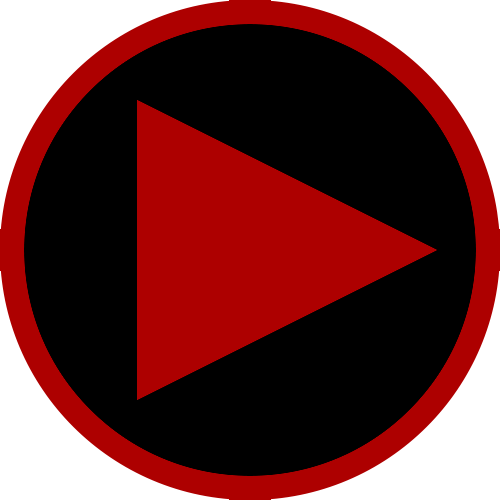
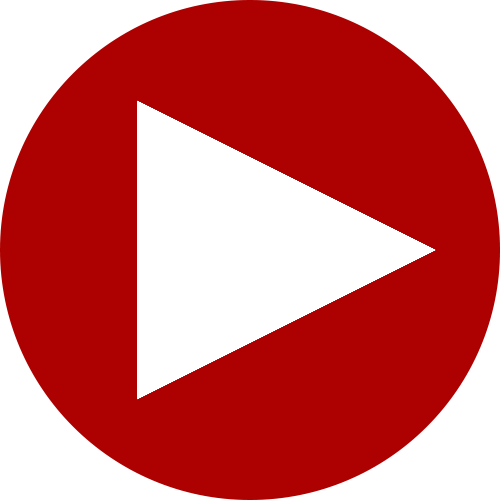
New Facebook
*updated Facebook link
*updated index.htm copyright
*purged youtube folder

diff --git a/de/contact.htm b/de/contact.htm
@@ -117,7 +117,7 @@
 					</td>
 					<!--Facebook-->
 					<td title='Facebook'>
-						<a href='https://www.facebook.com/antoineportes.composer' target='_blank' type='text/html' charset='UTF-8' rel='external'>
+						<a href='https://www.facebook.com/Antoine-Portes-101072901461802/' target='_blank' type='text/html' charset='UTF-8' rel='external'>
 							<img alt='Facebook' src='https://raw.githubusercontent.com/antoineportes/files/master/_png/follow/Facebook 256x256.png'/>
 						</a>
 					</td>

diff --git a/de/links.htm b/de/links.htm
@@ -141,7 +141,7 @@
 					</td>
 					<!--Facebook-->
 					<td title='Facebook'>
-						<a href='https://www.facebook.com/antoineportes.composer' target='_blank' type='text/html' charset='UTF-8' rel='external'>
+						<a href='https://www.facebook.com/Antoine-Portes-101072901461802/' target='_blank' type='text/html' charset='UTF-8' rel='external'>
 							<img alt='Facebook' src='https://raw.githubusercontent.com/antoineportes/files/master/_png/follow/Facebook 256x256.png'/>
 						</a>
 					</td>

diff --git a/de/sounds.htm b/de/sounds.htm
@@ -603,7 +603,7 @@
 					</td>
 					<!--Facebook-->
 					<td title='Facebook'>
-						<a href='https://www.facebook.com/antoineportes.composer' target='_blank' type='text/html' charset='UTF-8' rel='external'>
+						<a href='https://www.facebook.com/Antoine-Portes-101072901461802/' target='_blank' type='text/html' charset='UTF-8' rel='external'>
 							<img alt='Facebook' src='https://raw.githubusercontent.com/antoineportes/files/master/_png/follow/Facebook 256x256.png'/>
 						</a>
 					</td>

diff --git a/en/about.htm b/en/about.htm
@@ -170,7 +170,7 @@
 					</td>
 					<!--Facebook-->
 					<td title='Facebook'>
-						<a href='https://www.facebook.com/antoineportes.composer' target='_blank' type='text/html' charset='UTF-8' rel='external'>
+						<a href='https://www.facebook.com/Antoine-Portes-101072901461802/' target='_blank' type='text/html' charset='UTF-8' rel='external'>
 							<img alt='Facebook' src='https://raw.githubusercontent.com/antoineportes/files/master/_png/follow/Facebook 256x256.png'/>
 						</a>
 					</td>

diff --git a/en/contact.htm b/en/contact.htm
@@ -118,7 +118,7 @@
 					</td>
 					<!--Facebook-->
 					<td title='Facebook'>
-						<a href='https://www.facebook.com/antoineportes.composer' target='_blank' type='text/html' charset='UTF-8' rel='external'>
+						<a href='https://www.facebook.com/Antoine-Portes-101072901461802/' target='_blank' type='text/html' charset='UTF-8' rel='external'>
 							<img alt='Facebook' src='https://raw.githubusercontent.com/antoineportes/files/master/_png/follow/Facebook 256x256.png'/>
 						</a>
 					</td>

diff --git a/en/links.htm b/en/links.htm
@@ -141,7 +141,7 @@
 					</td>
 					<!--Facebook-->
 					<td title='Facebook'>
-						<a href='https://www.facebook.com/antoineportes.composer' target='_blank' type='text/html' charset='UTF-8' rel='external'>
+						<a href='https://www.facebook.com/Antoine-Portes-101072901461802/' target='_blank' type='text/html' charset='UTF-8' rel='external'>
 							<img alt='Facebook' src='https://raw.githubusercontent.com/antoineportes/files/master/_png/follow/Facebook 256x256.png'/>
 						</a>
 					</td>

diff --git a/en/sounds.htm b/en/sounds.htm
@@ -607,7 +607,7 @@
 					</td>
 					<!--Facebook-->
 					<td title='Facebook'>
-						<a href='https://www.facebook.com/antoineportes.composer' target='_blank' type='text/html' charset='UTF-8' rel='external'>
+						<a href='https://www.facebook.com/Antoine-Portes-101072901461802/' target='_blank' type='text/html' charset='UTF-8' rel='external'>
 							<img alt='Facebook' src='https://raw.githubusercontent.com/antoineportes/files/master/_png/follow/Facebook 256x256.png'/>
 						</a>
 					</td>

diff --git a/fr/about.htm b/fr/about.htm
@@ -170,7 +170,7 @@
 					</td>
 					<!--Facebook-->
 					<td title='Facebook'>
-						<a href='https://www.facebook.com/antoineportes.composer' target='_blank' type='text/html' charset='UTF-8' rel='external'>
+						<a href='https://www.facebook.com/Antoine-Portes-101072901461802/' target='_blank' type='text/html' charset='UTF-8' rel='external'>
 							<img alt='Facebook' src='https://raw.githubusercontent.com/antoineportes/files/master/_png/follow/Facebook 256x256.png'/>
 						</a>
 					</td>

diff --git a/fr/contact.htm b/fr/contact.htm
@@ -117,7 +117,7 @@
 					</td>
 					<!--Facebook-->
 					<td title='Facebook'>
-						<a href='https://www.facebook.com/antoineportes.composer' target='_blank' type='text/html' charset='UTF-8' rel='external'>
+						<a href='https://www.facebook.com/Antoine-Portes-101072901461802/' target='_blank' type='text/html' charset='UTF-8' rel='external'>
 							<img alt='Facebook' src='https://raw.githubusercontent.com/antoineportes/files/master/_png/follow/Facebook 256x256.png'/>
 						</a>
 					</td>

diff --git a/fr/links.htm b/fr/links.htm
@@ -143,7 +143,7 @@
 					</td>
 					<!--Facebook-->
 					<td title='Facebook'>
-						<a href='https://www.facebook.com/antoineportes.composer' target='_blank' type='text/html' charset='UTF-8' rel='external'>
+						<a href='https://www.facebook.com/Antoine-Portes-101072901461802/' target='_blank' type='text/html' charset='UTF-8' rel='external'>
 							<img alt='Facebook' src='https://raw.githubusercontent.com/antoineportes/files/master/_png/follow/Facebook 256x256.png'/>
 						</a>
 					</td>

diff --git a/fr/sounds.htm b/fr/sounds.htm
@@ -602,7 +602,7 @@
 					</td>
 					<!--Facebook-->
 					<td title='Facebook'>
-						<a href='https://www.facebook.com/antoineportes.composer' target='_blank' type='text/html' charset='UTF-8' rel='external'>
+						<a href='https://www.facebook.com/Antoine-Portes-101072901461802/' target='_blank' type='text/html' charset='UTF-8' rel='external'>
 							<img alt='Facebook' src='https://raw.githubusercontent.com/antoineportes/files/master/_png/follow/Facebook 256x256.png'/>
 						</a>
 					</td>

diff --git a/mobile/en/about.htm b/mobile/en/about.htm
@@ -148,7 +148,7 @@
 					</td>
 					<!--Facebook-->
 					<td title='Facebook'>
-						<a href='https://www.facebook.com/antoineportes.composer' target='_blank' type='text/html' charset='UTF-8' rel='external'>
+						<a href='https://www.facebook.com/Antoine-Portes-101072901461802/' target='_blank' type='text/html' charset='UTF-8' rel='external'>
 							<img alt='Facebook' src='https://raw.githubusercontent.com/antoineportes/files/master/_png/follow/Facebook 256x256.png'/>
 						</a>
 					</td>
